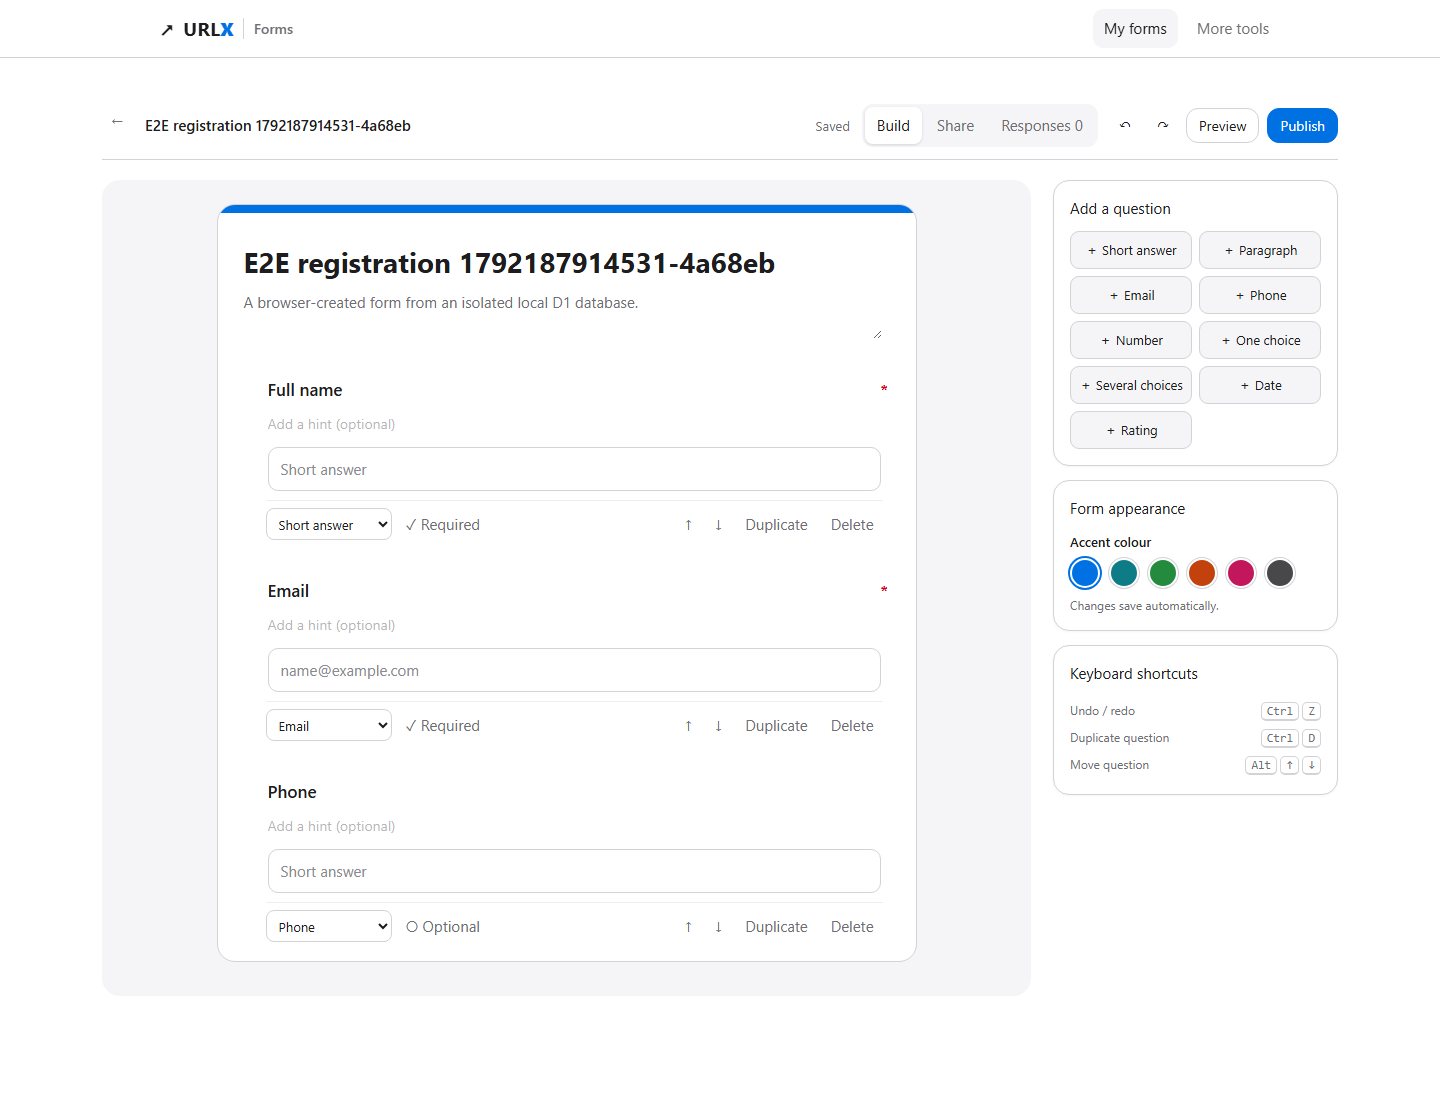
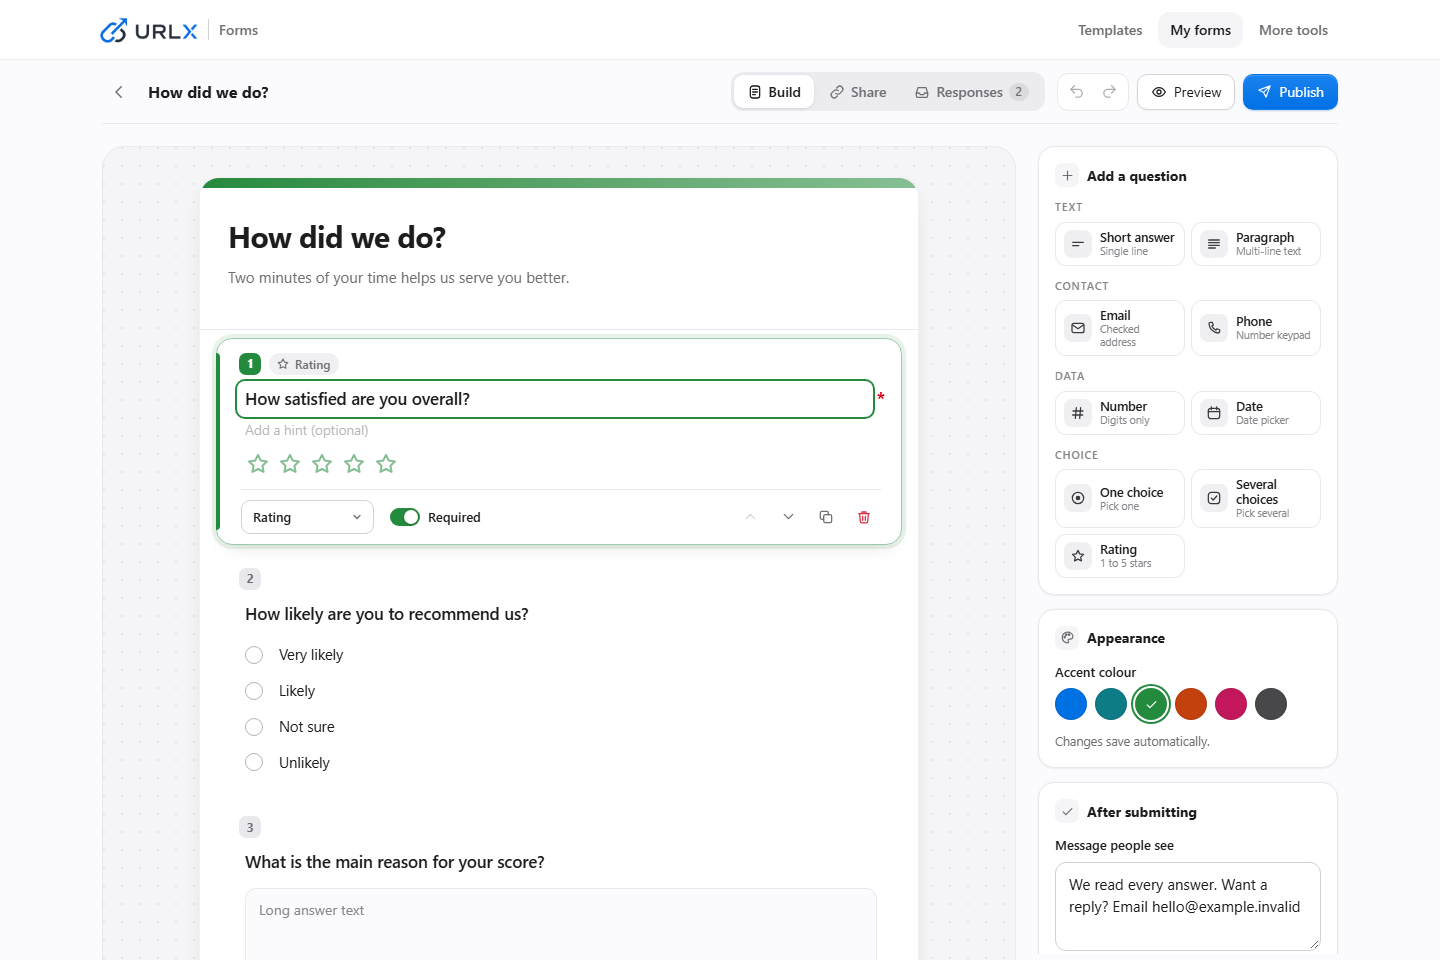
docs: refresh Forms screenshots for the redesign
- Replace the editor screenshots and add the template gallery, template
  preview, responses summary, public form and ending screen.
- Keep visually hidden table labels inside the table scroller so the
  responses table no longer widens the page on phones.
- Editor fields keep a single accent focus ring, and the rating preview
  shows five empty stars.

diff --git a/apps/web/src/styles/forms.css b/apps/web/src/styles/forms.css
@@ -53,7 +53,11 @@
 }
 .f-input:focus-visible,
 .f-textarea:focus-visible,
-.f-select:focus-visible {
+.f-select:focus-visible,
+.f-question input:focus-visible,
+.f-question textarea:focus-visible,
+.f-paper-head input:focus-visible,
+.f-paper-head textarea:focus-visible {
 	outline: none;
 }
 .forms-app h1,
@@ -1637,11 +1641,6 @@ a.f-btn[aria-disabled="true"] {
 	margin: 10px 8px 2px;
 	color: color-mix(in srgb, var(--form-accent, #0071e3) 55%, #fff);
 }
-.q-stars .f-ico:first-child,
-.q-stars .f-ico:nth-child(2),
-.q-stars .f-ico:nth-child(3) {
-	fill: color-mix(in srgb, var(--form-accent, #0071e3) 22%, #fff);
-}
 .f-question .q-options {
 	display: grid;
 	gap: 4px;
@@ -2143,7 +2142,10 @@ a.f-btn[aria-disabled="true"] {
 	margin: 0;
 	font-size: 18px;
 }
+/* Positioned so visually hidden (absolute) labels inside the table stay clipped
+   by this scroller instead of widening the page on phones. */
 .f-table-scroll {
+	position: relative;
 	overflow: auto;
 }
 .f-response-table {

diff --git a/docs/forms.md b/docs/forms.md
@@ -2,13 +2,21 @@
 
 ## Interface previews
 
-These screenshots come from the isolated browser suite with synthetic data.
+These screenshots come from a local preview with synthetic data.
+
+![Template gallery](forms/screenshots/forms-templates-desktop.png)
+
+![Template preview page](forms/screenshots/forms-template-preview-desktop.png)
 
 ![Forms editor on desktop](forms/screenshots/forms-editor-desktop.png)
 
 ![Forms editor at a 390px viewport](forms/screenshots/forms-editor-mobile.png)
 
-![Public form confirmation on mobile](forms/screenshots/forms-public-response-mobile.png)
+![Responses summary](forms/screenshots/forms-responses-desktop.png)
+
+![Public form on mobile](forms/screenshots/forms-public-form-mobile.png)
+
+![Ending screen on mobile](forms/screenshots/forms-public-thanks-mobile.png)
 
 URLX Forms is part of the MIT-licensed URLX application. It is available when the
 Forms authentication and email bindings are configured. Until then, the Forms
